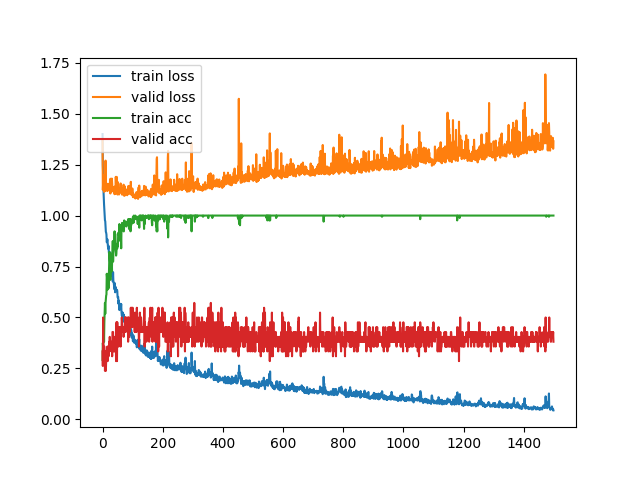
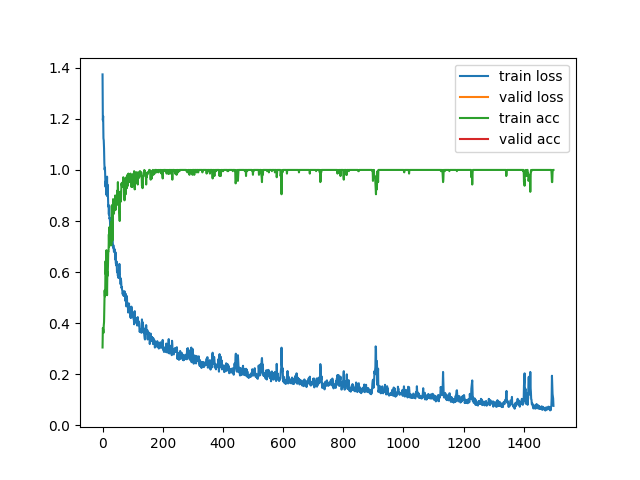
update

diff --git a/codes/classify/test.py b/codes/classify/test.py
@@ -88,6 +88,10 @@ def load_lyh_data(sessionId, train_idx=10):
         eeg_raw_test_v5 = pickle.load(f)
     with open(os.path.join(dir_path, v5_train_fp), 'rb') as f:
         eeg_raw_train_v5 = pickle.load(f)
+    with open(os.path.join(dir_path, v5_1_train_fp), 'rb') as f:
+        eeg_raw_train_v5_1 = pickle.load(f)
+    with open(os.path.join(dir_path, v5_1_test_fp), 'rb') as f:
+        eeg_raw_test_v5_1 = pickle.load(f)
 
     fs = 250
     X_train_tot = []
@@ -116,16 +120,25 @@ def load_lyh_data(sessionId, train_idx=10):
         y_test_new = np.array(eeg_raw_test_v5['y_true'])
         X_train_new = np.array(eeg_raw_train_v5['X_processed']).squeeze()
         y_train_new = np.array(eeg_raw_train_v5['y_true'])
+
+        X_test_5_1 = np.array(eeg_raw_test_v5_1['X_processed']).squeeze()
+        y_test_5_1 = np.array(eeg_raw_test_v5_1['y_true'])
+        X_train_5_1 = np.array(eeg_raw_train_v5_1['X_processed']).squeeze()
+        y_train_5_1 = np.array(eeg_raw_train_v5_1['y_true'])
+
         X_train_add = np.concatenate([X_train, X_train_new])
         y_train_add = np.concatenate([y_train, y_train_new])
         X_train_add_2 = np.concatenate([X_test, X_train_new])
         y_train_add_2 = np.concatenate([y_test, y_train_new])
+        X_train_add_5_1 = np.concatenate([X_train, X_train_5_1])
+        y_train_add_5_1 = np.concatenate([y_train, y_train_5_1])
 
-        train_data = {'x': X_train, 'y': y_train, 'c': [i for i in range(14)], 's': fs}
+        # train_data = {'x': X_train, 'y': y_train, 'c': [i for i in range(14)], 's': fs}
         # train_data = {'x': X_train_new, 'y': y_train_new, 'c': [i for i in range(14)], 's': fs}
         # train_data = {'x': X_train_add, 'y': y_train_add, 'c': [i for i in range(14)], 's': fs}
         # train_data = {'x': X_train_add_2, 'y': y_train_add_2, 'c': [i for i in range(14)], 's': fs}
-        test_data = {'x': X_test, 'y': y_test, 'c': [i for i in range(14)], 's': fs}
+        train_data = {'x': X_train_5_1, 'y': y_train, 'c': [i for i in range(14)], 's': fs}
+        test_data = {'x': X_test_5_1, 'y': y_test_5_1, 'c': [i for i in range(14)], 's': fs}
         # test_data = {'x': X_test_new, 'y': y_test_new, 'c': [i for i in range(14)], 's': fs}
         #(n_chan, 1000, n_trials)
         return train_data, test_data
@@ -388,7 +401,7 @@ if __name__ == "__main__":
     print(f"tot: {tot_cnt} correct: {acc_cnt} acc: {acc_cnt / tot_cnt}")
     
 
-    fbcnet.finetune((finetune_data['x'], finetune_data['y']), train_ratio=0.8, earlyStop=False)
+    fbcnet.finetune((finetune_data['x'], finetune_data['y']), train_ratio=1, earlyStop=False)
 
     # print("------train set after finetune----------")
     # ans_list = []

diff --git a/codes/classify/fbcnet.py b/codes/classify/fbcnet.py
@@ -110,7 +110,7 @@ class FBCNet:
         # loaded_state_dict = torch.load('models/model_state_dict.pth')
         # self.net.load_state_dict(loaded_state_dict)
         print("pre-trained model loaded.")
-        self.model = baseModel(net=self.net, resultsSavePath=None, batchSize=config['batchSize'], setRng=False)
+        # self.model = baseModel(net=self.net, resultsSavePath=None, batchSize=config['batchSize'], setRng=False)
 
     def train_valid_split(self, X, y, train_ratio=0.8):
         """
